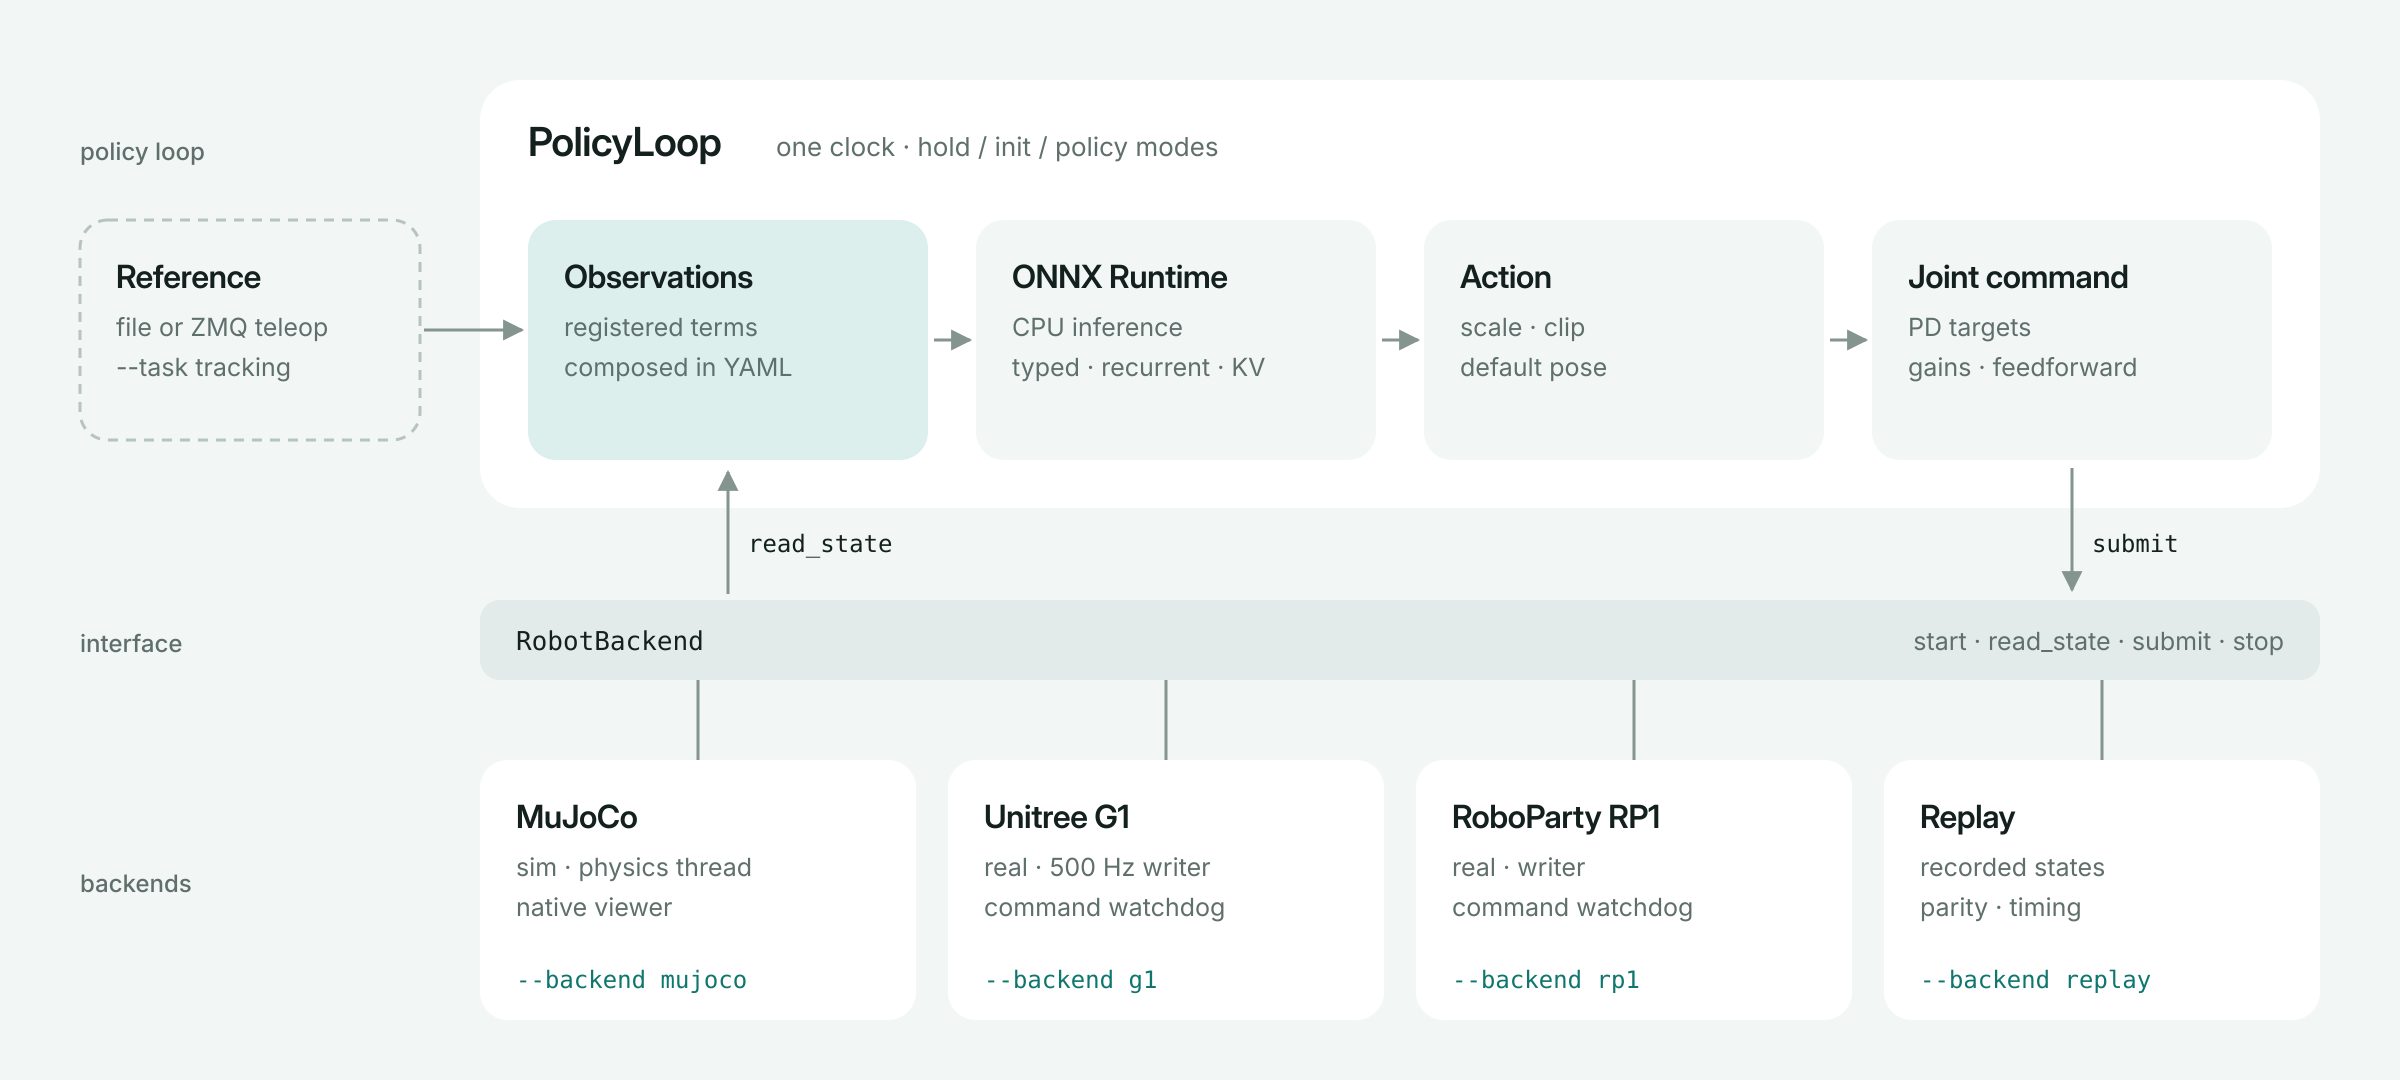
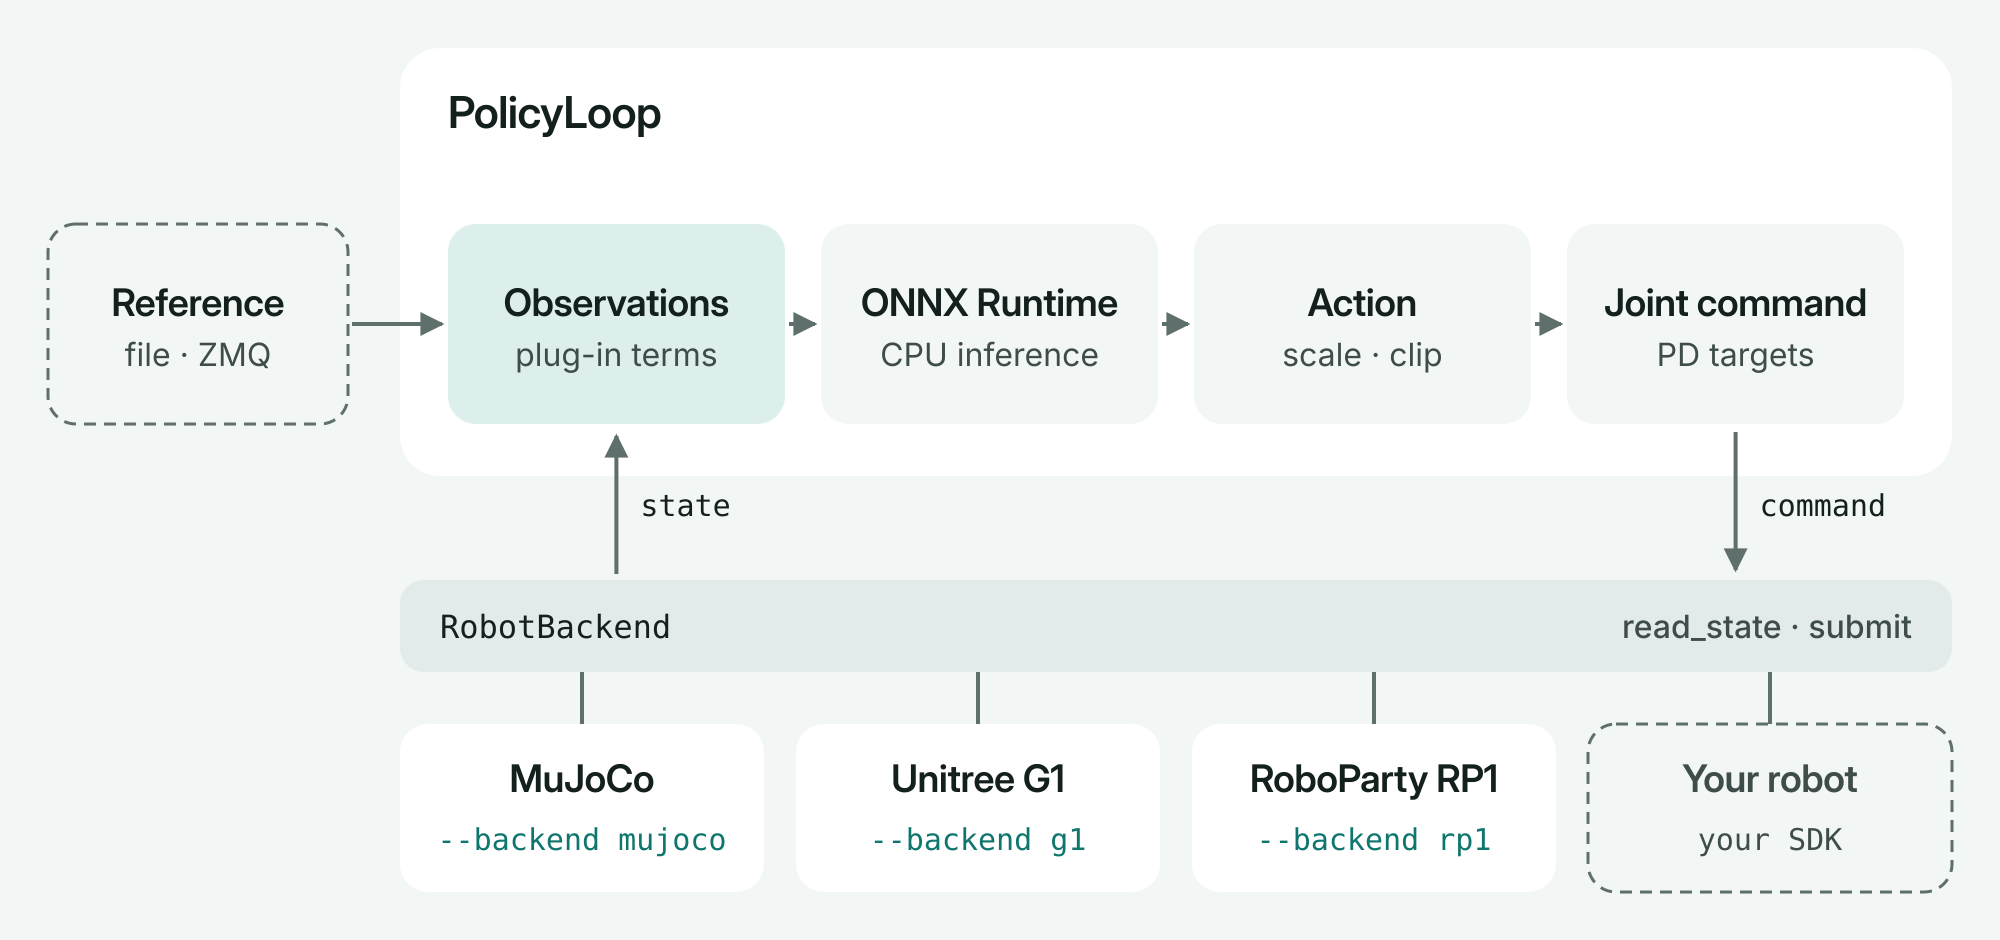
Render docs diagrams inline and simplify the architecture figure
1. Inline the generated SVGs as React components so diagrams use page fonts and stay sharp.
2. Architecture figure: fewer labels, larger text, stronger contrast, and a custom robot backend tile.
3. Generate a homepage overview variant with a "Learn more" row.

diff --git a/docs/src/components/Figures.tsx b/docs/src/components/Figures.tsx
@@ -1,0 +1,64 @@
+import React from 'react';
+// Inline SVG (via SVGR) so diagrams use page fonts, stay sharp and keep selectable text.
+// Sources are generated by tools/render_overview.py.
+import Link from '@docusaurus/Link';
+import Overview from '@site/media/overview.svg';
+import OverviewHome from '@site/media/overview-home.svg';
+import Architecture from '@site/media/architecture.svg';
+
+function Figure({children, label}: {children: React.ReactNode; label: string}) {
+  return (
+    <figure className="bolt-diagram" role="img" aria-label={label}>
+      {children}
+    </figure>
+  );
+}
+
+export function OverviewFigure() {
+  return (
+    <Figure label="Modular observations, seamless sim-to-real and policy-step latency">
+      <Overview />
+    </Figure>
+  );
+}
+
+export function ArchitectureFigure() {
+  return (
+    <Figure label="PolicyLoop over the RobotBackend interface with MuJoCo, G1, RP1 and custom robot backends">
+      <Architecture />
+    </Figure>
+  );
+}
+
+// Homepage variant: each card of the figure links to its docs page.
+// Geometry matches tools/render_overview.py (W=1200, H=440+40, PAD=GAP=24).
+const HOME = {w: 1200, h: 480, pad: 24, gap: 24};
+const cardWidth = (HOME.w - 2 * HOME.pad - 2 * HOME.gap) / 3;
+const homeLinks = [
+  {to: '/core/observations', label: 'Modular observations'},
+  {to: '/core/backends', label: 'Seamless sim-to-real'},
+  {to: '/reference/performance', label: 'Fast native C++'},
+];
+
+export function OverviewHomeFigure() {
+  const pct = (v: number, total: number) => `${(100 * v) / total}%`;
+  return (
+    <figure className="bolt-diagram bolt-diagram--linked">
+      <OverviewHome role="img" aria-label="Modular observations, seamless sim-to-real and policy-step latency" />
+      {homeLinks.map((link, i) => (
+        <Link
+          key={link.to}
+          to={link.to}
+          className="bolt-diagram__card"
+          aria-label={`Learn more: ${link.label}`}
+          style={{
+            left: pct(HOME.pad + i * (cardWidth + HOME.gap), HOME.w),
+            top: pct(HOME.pad, HOME.h),
+            width: pct(cardWidth, HOME.w),
+            height: pct(HOME.h - 2 * HOME.pad, HOME.h),
+          }}
+        />
+      ))}
+    </figure>
+  );
+}

diff --git a/tools/render_overview.py b/tools/render_overview.py
@@ -21,6 +21,8 @@ TEXT = "Inter, 'Helvetica Neue', Arial, sans-serif"
 MONO = "'JetBrains Mono', 'DejaVu Sans Mono', monospace"
 W, H, PAD, GAP = 1200, 440, 24, 24
 CW = (W - 2 * PAD - 2 * GAP) / 3
+LINK_ROW = 40  # extra card height for the homepage variant's "Learn more" links
+EXTRA = 0
 
 
 def text(x, y, s, size=14, fill=INK2, family=TEXT, weight=400, anchor="start", spacing=0):
@@ -40,7 +42,7 @@ def arrow(d):
 def card(i, title, subtitle):
     x = PAD + i * (CW + GAP)
     return x, [
-        rect(x, PAD, CW, H - 2 * PAD, 20, CARD),
+        rect(x, PAD, CW, H - 2 * PAD + EXTRA, 20, CARD),
         text(x + 28, PAD + 52, title, 22, INK, DISPLAY, 600, spacing=-0.3),
         text(x + 28, PAD + 76, subtitle, 14, INK2),
     ]
@@ -112,69 +114,74 @@ def fast(results):
     return out
 
 
-def node(x, y, w, h, title, lines, fill=BAND, dashed=False):
-    out = []
-    if dashed:
-        out.append(f'<rect x="{x:.1f}" y="{y:.1f}" width="{w:.1f}" height="{h:.1f}" rx="14" fill="none" '
-                   f'stroke="{GREY}" stroke-width="1.5" stroke-dasharray="5 4"/>')
-    else:
-        out.append(rect(x, y, w, h, 14, fill))
-    out.append(text(x + 18, y + 34, title, 16, INK, DISPLAY, 600, spacing=-0.2))
-    for k, line in enumerate(lines):
-        out.append(text(x + 18, y + 58 + k * 20, line, 12.5, INK2))
-    return out
-
-
-def architecture(width=1200, height=540):
+def architecture(width=1000, height=470):
+    """Docs architecture figure: fewer, larger labels and stronger contrast than the overview."""
+    ink2, line = "#3f4d4a", "#5f6f6c"
     out = [rect(0, 0, width, height, 0, BAND)]
-    left, right = 240, width - 40
-    # Row labels.
-    for y, label in [(80, "policy loop"), (326, "interface"), (446, "backends")]:
-        out.append(text(40, y, label, 12, INK2, TEXT, 500))
-    # Reference motion input (tracking task only).
-    out += node(40, 110, 170, 110, "Reference", ["file or ZMQ teleop", "--task tracking"], dashed=True)
-    # PolicyLoop card with its pipeline.
-    out.append(rect(left, 40, right - left, 214, 20, CARD))
-    out.append(text(left + 24, 78, "PolicyLoop", 20, INK, DISPLAY, 600, spacing=-0.3))
-    out.append(text(left + 148, 78, "one clock · hold / init / policy modes", 13, INK2))
-    stages = [("Observations", ["registered terms", "composed in YAML"]),
-              ("ONNX Runtime", ["CPU inference", "typed · recurrent · KV"]),
-              ("Action", ["scale · clip", "default pose"]),
-              ("Joint command", ["PD targets", "gains · feedforward"])]
-    gap, sw = 24, (right - left - 48 - 3 * 24) / 4
+
+    def box(x, y, w, h, title, sub, fill, title_fill=INK, dashed=False):
+        if dashed:
+            out.append(f'<rect x="{x:.1f}" y="{y:.1f}" width="{w:.1f}" height="{h:.1f}" rx="14" fill="none" '
+                       f'stroke="{line}" stroke-width="1.5" stroke-dasharray="6 4"/>')
+        else:
+            out.append(rect(x, y, w, h, 14, fill))
+        out.append(text(x + w / 2, y + h / 2 - 4, title, 19, title_fill, DISPLAY, 600, "middle", -0.2))
+        out.append(text(x + w / 2, y + h / 2 + 21, sub, 16, ink2, TEXT, 400, "middle"))
+
+    def link(d, both=False):
+        start = ' marker-start="url(#ahs)"' if both else ""
+        out.append(f'<path d="{d}" fill="none" stroke="{line}" stroke-width="2"{start} marker-end="url(#ahd)"/>')
+
+    # Reference input (tracking task) and the PolicyLoop card with its pipeline.
+    box(24, 112, 150, 100, "Reference", "file · ZMQ", BAND, dashed=True)
+    left, right = 200, width - 24
+    out.append(rect(left, 24, right - left, 214, 20, CARD))
+    out.append(text(left + 24, 64, "PolicyLoop", 22, INK, DISPLAY, 600, spacing=-0.3))
+    stages = [("Observations", "plug-in terms", ACCENT_SOFT), ("ONNX Runtime", "CPU inference", BAND),
+              ("Action", "scale · clip", BAND), ("Joint command", "PD targets", BAND)]
+    gap = 18
+    sw = (right - left - 48 - 3 * gap) / 4
     xs = [left + 24 + k * (sw + gap) for k in range(4)]
-    for k, (title, lines) in enumerate(stages):
-        out += node(xs[k], 110, sw, 120, title, lines, ACCENT_SOFT if k == 0 else BAND)
+    for k, (title, sub, fill) in enumerate(stages):
+        box(xs[k], 112, sw, 100, title, sub, fill)
         if k:
-            out.append(arrow(f"M{xs[k - 1] + sw + 3:.1f} 170 L{xs[k] - 3:.1f} 170"))
-    out.append(arrow(f"M212 165 L{xs[0] - 3:.1f} 165"))
-    # Interface bar and the two calls crossing it.
-    out.append(rect(left, 300, right - left, 40, 10, FILL))
-    out.append(text(left + 18, 325, "RobotBackend", 13, INK, MONO, 500))
-    out.append(text(right - 18, 325, "start · read_state · submit · stop", 12.5, INK2, TEXT, 400, "end"))
+            link(f"M{xs[k - 1] + sw + 2:.1f} 162 L{xs[k] - 3:.1f} 162")
+    link(f"M176 162 L{xs[0] - 3:.1f} 162")
+
+    # Interface bar with the two calls crossing it.
+    out.append(rect(left, 290, right - left, 46, 12, FILL))
+    out.append(text(left + 20, 319, "RobotBackend", 16, INK, MONO, 500))
+    out.append(text(right - 20, 319, "read_state · submit", 16, ink2, TEXT, 500, "end"))
     obs_c, cmd_c = xs[0] + sw / 2, xs[3] + sw / 2
-    out.append(arrow(f"M{obs_c:.1f} 297 L{obs_c:.1f} 236"))
-    out.append(text(obs_c + 10, 276, "read_state", 12, INK, MONO))
-    out.append(arrow(f"M{cmd_c:.1f} 234 L{cmd_c:.1f} 295"))
-    out.append(text(cmd_c + 10, 276, "submit", 12, INK, MONO))
+    link(f"M{obs_c:.1f} 287 L{obs_c:.1f} 218")
+    out.append(text(obs_c + 12, 258, "state", 15, INK, MONO))
+    link(f"M{cmd_c:.1f} 216 L{cmd_c:.1f} 285")
+    out.append(text(cmd_c + 12, 258, "command", 15, INK, MONO))
+
     # Equal backends.
-    tiles = [("MuJoCo", ["sim · physics thread", "native viewer"], "mujoco"),
-             ("Unitree G1", ["real · 500 Hz writer", "command watchdog"], "g1"),
-             ("RoboParty RP1", ["real · writer", "command watchdog"], "rp1"),
-             ("Replay", ["recorded states", "parity · timing"], "replay")]
-    tw = (right - left - 3 * 16) / 4
-    for k, (title, lines, flag) in enumerate(tiles):
-        tx = left + k * (tw + 16)
-        out.append(f'<path d="M{tx + tw / 2:.1f} 340 L{tx + tw / 2:.1f} 380" stroke="{ARROW}" stroke-width="1.5"/>')
-        out.append(rect(tx, 380, tw, 130, 14, CARD))
-        out.append(text(tx + 18, 414, title, 16, INK, DISPLAY, 600, spacing=-0.2))
-        for j, line in enumerate(lines):
-            out.append(text(tx + 18, 438 + j * 20, line, 12.5, INK2))
-        out.append(text(tx + 18, 494, f"--backend {flag}", 12, ACCENT, MONO, 500))
+    tiles = [("MuJoCo", "--backend mujoco"), ("Unitree G1", "--backend g1"),
+             ("RoboParty RP1", "--backend rp1"), ("Your robot", "your SDK")]
+    tgap = 16
+    tw = (right - left - 3 * tgap) / 4
+    for k, (title, flag) in enumerate(tiles):
+        tx = left + k * (tw + tgap)
+        out.append(f'<path d="M{tx + tw / 2:.1f} 336 L{tx + tw / 2:.1f} 362" stroke="{line}" stroke-width="2"/>')
+        yours = title == "Your robot"
+        if yours:
+            out.append(f'<rect x="{tx:.1f}" y="362" width="{tw:.1f}" height="84" rx="14" fill="none" '
+                       f'stroke="{line}" stroke-width="1.5" stroke-dasharray="6 4"/>')
+        else:
+            out.append(rect(tx, 362, tw, 84, 14, CARD))
+        out.append(text(tx + tw / 2, 396, title, 19, ink2 if yours else INK, DISPLAY, 600, "middle", -0.2))
+        out.append(text(tx + tw / 2, 425, flag, 15, ink2 if yours else ACCENT, MONO, 500, "middle"))
+    out.append(f'<defs><marker id="ahd" viewBox="0 0 10 10" refX="9" refY="5" markerWidth="6" markerHeight="6" '
+               f'orient="auto"><path d="M0 0L10 5L0 10z" fill="{line}"/></marker>'
+               f'<marker id="ahs" viewBox="0 0 10 10" refX="9" refY="5" markerWidth="6" markerHeight="6" '
+               f'orient="auto-start-reverse"><path d="M0 0L10 5L0 10z" fill="{line}"/></marker></defs>')
     return out, width, height
 
 
-def write(name, body, width, height):
+def write(name, body, width, height, png=True):
     svg = (f'<svg xmlns="http://www.w3.org/2000/svg" width="{width}" height="{height}" '
            f'viewBox="0 0 {width} {height}">\n'
            f'<defs><marker id="ah" viewBox="0 0 10 10" refX="9" refY="5" markerWidth="7" '
@@ -182,20 +189,30 @@ def write(name, body, width, height):
            + "\n".join(body) + "\n</svg>\n")
     out = ROOT / f"docs/media/{name}.svg"
     out.write_text(svg)
-    if shutil.which("inkscape"):
+    if png and shutil.which("inkscape"):
         png = out.with_suffix(".png")
         subprocess.run(["inkscape", str(out), "--export-type=png", f"--export-filename={png}",
                         f"--export-width={width * 2}"], check=True, capture_output=True)
         print(png)
     else:
-        print(f"{out} (install Inkscape to export PNG)")
+        print(out if not png else f"{out} (install Inkscape to export PNG)")
+
+
+def learn_more():
+    return [text(PAD + i * (CW + GAP) + 28, H + EXTRA - PAD - 26, "Learn more →", 15, ACCENT, TEXT, 600)
+            for i in range(3)]
 
 
 def main():
+    global EXTRA
     results = json.loads((ROOT / "docs/reference/data/performance-results.json").read_text())
     write("overview", [rect(0, 0, W, H, 0, BAND)] + modular() + backends() + fast(results), W, H)
+    # Homepage variant: taller cards with a "Learn more" row; the page overlays links on each card.
+    EXTRA = LINK_ROW
+    body = [rect(0, 0, W, H + EXTRA, 0, BAND)] + modular() + backends() + fast(results) + learn_more()
+    write("overview-home", body, W, H + EXTRA, png=False)
+    EXTRA = 0
     write("architecture", *architecture())
-
 
 if __name__ == "__main__":
     main()

diff --git a/docs/intro.md b/docs/intro.md
@@ -12,7 +12,9 @@ deployment runtime for learned robot policies.
 - **Seamless sim-to-real**: MuJoCo and real robots implement one interface, decoupled from the policy, so switching is just `--backend`.
 - **Fast**: native C++ runs the full policy step 3.25× faster than the Python stack.
 
-![Overview](./media/overview.png)
+import {OverviewFigure} from '@site/src/components/Figures';
+
+<OverviewFigure />
 
 A run is always the combination of three configurations plus an optional task:
 

diff --git a/docs/core/architecture.md b/docs/core/architecture.md
@@ -3,7 +3,9 @@
 Bolt Runtime is one process with one policy loop. Simulation and hardware differ
 only in the backend object the loop talks to.
 
-![Bolt Runtime architecture: PolicyLoop over the RobotBackend interface with MuJoCo, G1, RP1 and replay backends](../media/architecture.png)
+import {ArchitectureFigure} from '@site/src/components/Figures';
+
+<ArchitectureFigure />
 
 ## The policy loop
 
